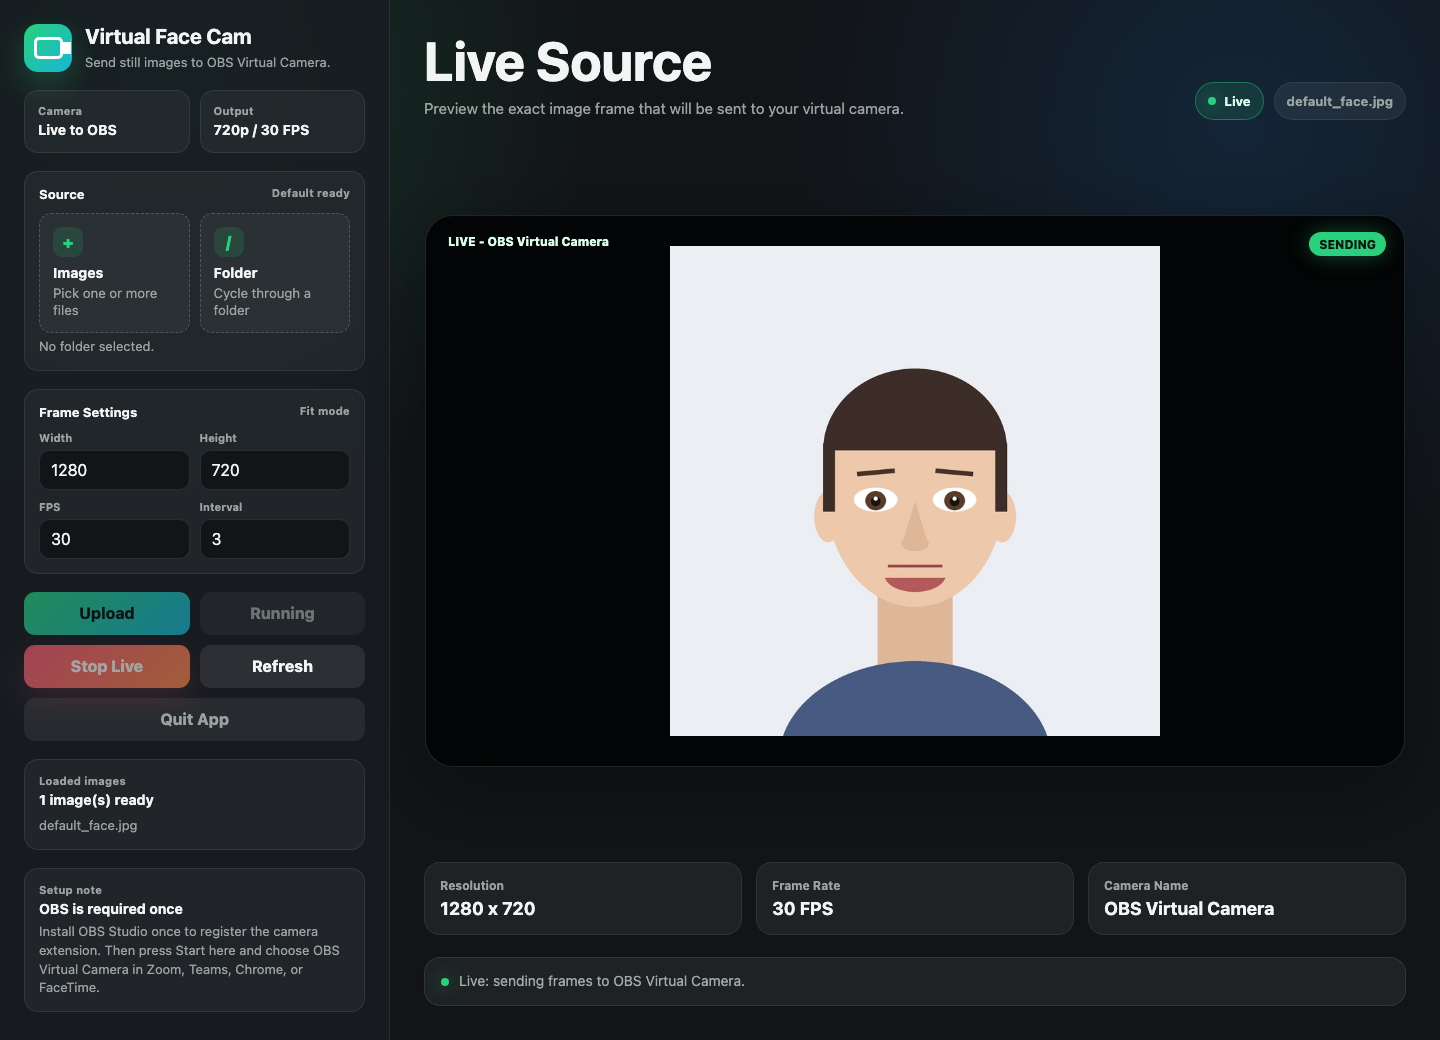
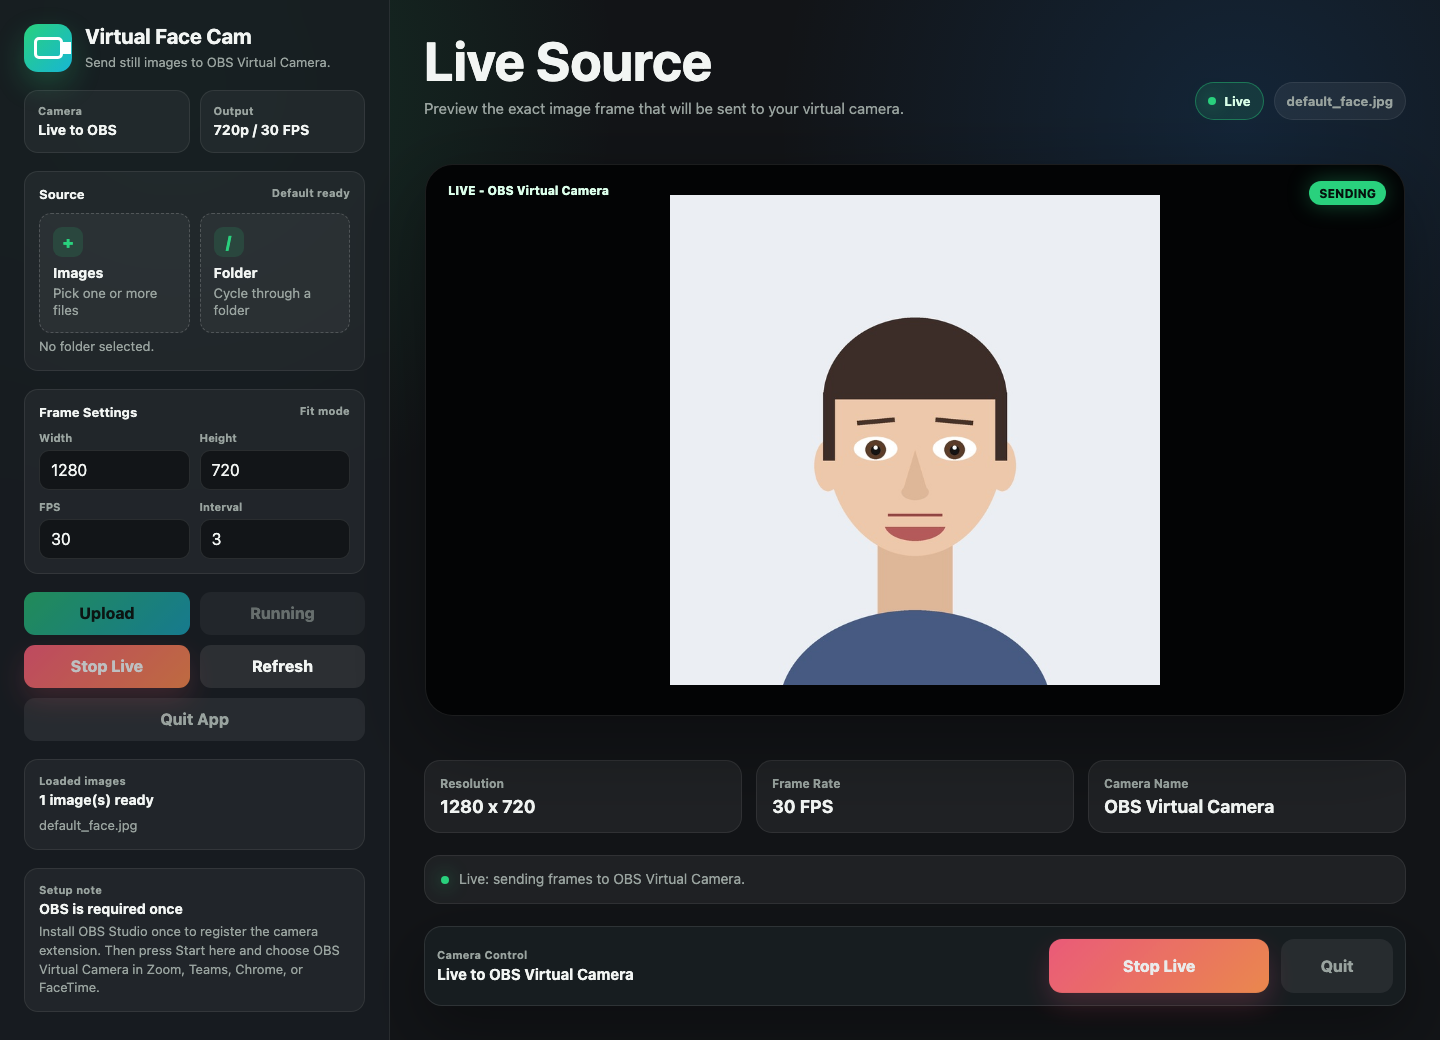
Make Mac browser app controls easier to use

diff --git a/mac/Virtual Face Cam.app/Contents/Resources/mac_virtual_face_cam.py b/mac/Virtual Face Cam.app/Contents/Resources/mac_virtual_face_cam.py
@@ -551,7 +551,7 @@ HTML = r"""<!doctype html>
       min-width: 0;
       padding: 34px;
       display: grid;
-      grid-template-rows: auto minmax(0, 1fr) auto;
+      grid-template-rows: auto minmax(0, 1fr) auto auto;
       gap: 22px;
     }
     .stage-header {
@@ -741,6 +741,37 @@ HTML = r"""<!doctype html>
       background: rgba(255, 92, 122, 0.10);
       color: #ffdce4;
     }
+    .live-dock {
+      position: sticky;
+      bottom: 18px;
+      z-index: 20;
+      display: grid;
+      grid-template-columns: minmax(0, 1fr) minmax(180px, 220px) 112px;
+      gap: 12px;
+      align-items: center;
+      padding: 12px;
+      border: 1px solid rgba(255, 255, 255, 0.10);
+      border-radius: 18px;
+      background: rgba(24, 29, 33, 0.92);
+      backdrop-filter: blur(24px);
+      box-shadow: 0 22px 60px rgba(0, 0, 0, 0.32);
+    }
+    .live-dock strong {
+      display: block;
+      font-size: 15px;
+      line-height: 1.25;
+      overflow-wrap: anywhere;
+    }
+    .live-dock button {
+      min-height: 54px;
+      font-size: 16px;
+      border-radius: 13px;
+    }
+    .big-action.danger {
+      background: linear-gradient(135deg, #ff5c7a, #ff8a4d);
+      color: #fff;
+      box-shadow: 0 12px 28px rgba(255, 92, 122, 0.22);
+    }
     @media (max-width: 880px) {
       .shell { grid-template-columns: 1fr; }
       .sidebar { border-right: 0; border-bottom: 1px solid rgba(255, 255, 255, 0.08); }
@@ -748,6 +779,7 @@ HTML = r"""<!doctype html>
       .stage-header { align-items: flex-start; flex-direction: column; }
       .pill-row { justify-content: flex-start; }
       .metrics { grid-template-columns: 1fr; }
+      .live-dock { grid-template-columns: 1fr; }
     }
   </style>
 </head>
@@ -880,6 +912,15 @@ HTML = r"""<!doctype html>
     </section>
 
     <div class="status" id="status"><span class="dot"></span><span>Stopped</span></div>
+
+    <section class="live-dock" aria-label="Camera controls">
+      <div>
+        <span class="eyebrow">Camera Control</span>
+        <strong id="dockStatus">Ready to start</strong>
+      </div>
+      <button id="mainToggle" class="primary big-action">Start Live</button>
+      <button id="dockQuit" class="secondary">Quit</button>
+    </section>
   </section>
 </main>
 
@@ -903,9 +944,13 @@ const uploadBtn = document.getElementById("upload");
 const startBtn = document.getElementById("start");
 const stopBtn = document.getElementById("stop");
 const quitBtn = document.getElementById("quit");
+const mainToggle = document.getElementById("mainToggle");
+const dockQuit = document.getElementById("dockQuit");
+const dockStatus = document.getElementById("dockStatus");
 const settingInputs = ["width", "height", "fps", "interval"].map(id => document.getElementById(id));
 let previewKey = "";
 let isQuitting = false;
+let latestState = { running: false, imageCount: 0 };
 
 function setStatus(message, tone = "idle") {
   const dotTone = tone === "running" ? "ready" : tone === "error" ? "error" : tone === "busy" ? "busy" : "";
@@ -953,14 +998,20 @@ function syncMetrics() {
 }
 
 function applyControls(data) {
+  latestState = data;
   const hasImages = Boolean(data.imageCount);
+  const running = Boolean(data.running);
   uploadBtn.disabled = Boolean(data.running);
   startBtn.disabled = Boolean(data.running) || !hasImages;
   stopBtn.disabled = !data.running;
   settingInputs.forEach(input => input.disabled = Boolean(data.running));
-  cameraValue.textContent = data.running ? "Live to OBS" : hasImages ? "Ready" : "Waiting";
-  startBtn.textContent = data.running ? "Running" : "Start";
-  stopBtn.textContent = data.running ? "Stop Live" : "Stop";
+  cameraValue.textContent = running ? "Live to OBS" : hasImages ? "Ready" : "Waiting";
+  startBtn.textContent = running ? "Running" : "Start";
+  stopBtn.textContent = running ? "Stop Live" : "Stop";
+  mainToggle.disabled = !running && !hasImages;
+  mainToggle.textContent = running ? "Stop Live" : "Start Live";
+  mainToggle.className = running ? "danger big-action" : "primary big-action";
+  dockStatus.textContent = running ? "Live to OBS Virtual Camera" : hasImages ? "Ready to start" : "Choose an image first";
 }
 
 function selectedFiles() {
@@ -1011,7 +1062,7 @@ document.getElementById("upload").addEventListener("click", async () => {
   }
 });
 
-document.getElementById("start").addEventListener("click", async () => {
+async function startCamera() {
   const body = {
     width: Number(document.getElementById("width").value),
     height: Number(document.getElementById("height").value),
@@ -1021,6 +1072,7 @@ document.getElementById("start").addEventListener("click", async () => {
   setStatus("Starting virtual camera...", "busy");
   startBtn.disabled = true;
   uploadBtn.disabled = true;
+  mainToggle.disabled = true;
   try {
     await api("/api/start", {
       method: "POST",
@@ -1032,11 +1084,12 @@ document.getElementById("start").addEventListener("click", async () => {
     setStatus(err.message, "error");
     await refresh();
   }
-});
+}
 
-document.getElementById("stop").addEventListener("click", async () => {
+async function stopCamera() {
   setStatus("Stopping virtual camera...", "busy");
   stopBtn.disabled = true;
+  mainToggle.disabled = true;
   try {
     await api("/api/stop", { method: "POST" });
     await refresh();
@@ -1044,11 +1097,14 @@ document.getElementById("stop").addEventListener("click", async () => {
     setStatus(err.message, "error");
     await refresh();
   }
-});
+}
+
+document.getElementById("start").addEventListener("click", startCamera);
+document.getElementById("stop").addEventListener("click", stopCamera);
 
 document.getElementById("refresh").addEventListener("click", refresh);
 
-quitBtn.addEventListener("click", () => {
+function quitApp() {
   isQuitting = true;
   setStatus("Closing app...", "busy");
   navigator.sendBeacon("/api/quit", new Blob([], { type: "text/plain" }));
@@ -1056,6 +1112,17 @@ quitBtn.addEventListener("click", () => {
   setTimeout(() => {
     statusEl.innerHTML = `<span class="dot busy"></span><span>App closed. Open Virtual Face Cam.app to start again.</span>`;
   }, 300);
+}
+
+quitBtn.addEventListener("click", quitApp);
+dockQuit.addEventListener("click", quitApp);
+
+mainToggle.addEventListener("click", () => {
+  if (latestState.running) {
+    stopCamera();
+  } else {
+    startCamera();
+  }
 });
 
 function pingServer() {

diff --git a/mac/mac_virtual_face_cam.py b/mac/mac_virtual_face_cam.py
@@ -551,7 +551,7 @@ HTML = r"""<!doctype html>
       min-width: 0;
       padding: 34px;
       display: grid;
-      grid-template-rows: auto minmax(0, 1fr) auto;
+      grid-template-rows: auto minmax(0, 1fr) auto auto;
       gap: 22px;
     }
     .stage-header {
@@ -741,6 +741,37 @@ HTML = r"""<!doctype html>
       background: rgba(255, 92, 122, 0.10);
       color: #ffdce4;
     }
+    .live-dock {
+      position: sticky;
+      bottom: 18px;
+      z-index: 20;
+      display: grid;
+      grid-template-columns: minmax(0, 1fr) minmax(180px, 220px) 112px;
+      gap: 12px;
+      align-items: center;
+      padding: 12px;
+      border: 1px solid rgba(255, 255, 255, 0.10);
+      border-radius: 18px;
+      background: rgba(24, 29, 33, 0.92);
+      backdrop-filter: blur(24px);
+      box-shadow: 0 22px 60px rgba(0, 0, 0, 0.32);
+    }
+    .live-dock strong {
+      display: block;
+      font-size: 15px;
+      line-height: 1.25;
+      overflow-wrap: anywhere;
+    }
+    .live-dock button {
+      min-height: 54px;
+      font-size: 16px;
+      border-radius: 13px;
+    }
+    .big-action.danger {
+      background: linear-gradient(135deg, #ff5c7a, #ff8a4d);
+      color: #fff;
+      box-shadow: 0 12px 28px rgba(255, 92, 122, 0.22);
+    }
     @media (max-width: 880px) {
       .shell { grid-template-columns: 1fr; }
       .sidebar { border-right: 0; border-bottom: 1px solid rgba(255, 255, 255, 0.08); }
@@ -748,6 +779,7 @@ HTML = r"""<!doctype html>
       .stage-header { align-items: flex-start; flex-direction: column; }
       .pill-row { justify-content: flex-start; }
       .metrics { grid-template-columns: 1fr; }
+      .live-dock { grid-template-columns: 1fr; }
     }
   </style>
 </head>
@@ -880,6 +912,15 @@ HTML = r"""<!doctype html>
     </section>
 
     <div class="status" id="status"><span class="dot"></span><span>Stopped</span></div>
+
+    <section class="live-dock" aria-label="Camera controls">
+      <div>
+        <span class="eyebrow">Camera Control</span>
+        <strong id="dockStatus">Ready to start</strong>
+      </div>
+      <button id="mainToggle" class="primary big-action">Start Live</button>
+      <button id="dockQuit" class="secondary">Quit</button>
+    </section>
   </section>
 </main>
 
@@ -903,9 +944,13 @@ const uploadBtn = document.getElementById("upload");
 const startBtn = document.getElementById("start");
 const stopBtn = document.getElementById("stop");
 const quitBtn = document.getElementById("quit");
+const mainToggle = document.getElementById("mainToggle");
+const dockQuit = document.getElementById("dockQuit");
+const dockStatus = document.getElementById("dockStatus");
 const settingInputs = ["width", "height", "fps", "interval"].map(id => document.getElementById(id));
 let previewKey = "";
 let isQuitting = false;
+let latestState = { running: false, imageCount: 0 };
 
 function setStatus(message, tone = "idle") {
   const dotTone = tone === "running" ? "ready" : tone === "error" ? "error" : tone === "busy" ? "busy" : "";
@@ -953,14 +998,20 @@ function syncMetrics() {
 }
 
 function applyControls(data) {
+  latestState = data;
   const hasImages = Boolean(data.imageCount);
+  const running = Boolean(data.running);
   uploadBtn.disabled = Boolean(data.running);
   startBtn.disabled = Boolean(data.running) || !hasImages;
   stopBtn.disabled = !data.running;
   settingInputs.forEach(input => input.disabled = Boolean(data.running));
-  cameraValue.textContent = data.running ? "Live to OBS" : hasImages ? "Ready" : "Waiting";
-  startBtn.textContent = data.running ? "Running" : "Start";
-  stopBtn.textContent = data.running ? "Stop Live" : "Stop";
+  cameraValue.textContent = running ? "Live to OBS" : hasImages ? "Ready" : "Waiting";
+  startBtn.textContent = running ? "Running" : "Start";
+  stopBtn.textContent = running ? "Stop Live" : "Stop";
+  mainToggle.disabled = !running && !hasImages;
+  mainToggle.textContent = running ? "Stop Live" : "Start Live";
+  mainToggle.className = running ? "danger big-action" : "primary big-action";
+  dockStatus.textContent = running ? "Live to OBS Virtual Camera" : hasImages ? "Ready to start" : "Choose an image first";
 }
 
 function selectedFiles() {
@@ -1011,7 +1062,7 @@ document.getElementById("upload").addEventListener("click", async () => {
   }
 });
 
-document.getElementById("start").addEventListener("click", async () => {
+async function startCamera() {
   const body = {
     width: Number(document.getElementById("width").value),
     height: Number(document.getElementById("height").value),
@@ -1021,6 +1072,7 @@ document.getElementById("start").addEventListener("click", async () => {
   setStatus("Starting virtual camera...", "busy");
   startBtn.disabled = true;
   uploadBtn.disabled = true;
+  mainToggle.disabled = true;
   try {
     await api("/api/start", {
       method: "POST",
@@ -1032,11 +1084,12 @@ document.getElementById("start").addEventListener("click", async () => {
     setStatus(err.message, "error");
     await refresh();
   }
-});
+}
 
-document.getElementById("stop").addEventListener("click", async () => {
+async function stopCamera() {
   setStatus("Stopping virtual camera...", "busy");
   stopBtn.disabled = true;
+  mainToggle.disabled = true;
   try {
     await api("/api/stop", { method: "POST" });
     await refresh();
@@ -1044,11 +1097,14 @@ document.getElementById("stop").addEventListener("click", async () => {
     setStatus(err.message, "error");
     await refresh();
   }
-});
+}
+
+document.getElementById("start").addEventListener("click", startCamera);
+document.getElementById("stop").addEventListener("click", stopCamera);
 
 document.getElementById("refresh").addEventListener("click", refresh);
 
-quitBtn.addEventListener("click", () => {
+function quitApp() {
   isQuitting = true;
   setStatus("Closing app...", "busy");
   navigator.sendBeacon("/api/quit", new Blob([], { type: "text/plain" }));
@@ -1056,6 +1112,17 @@ quitBtn.addEventListener("click", () => {
   setTimeout(() => {
     statusEl.innerHTML = `<span class="dot busy"></span><span>App closed. Open Virtual Face Cam.app to start again.</span>`;
   }, 300);
+}
+
+quitBtn.addEventListener("click", quitApp);
+dockQuit.addEventListener("click", quitApp);
+
+mainToggle.addEventListener("click", () => {
+  if (latestState.running) {
+    stopCamera();
+  } else {
+    startCamera();
+  }
 });
 
 function pingServer() {

diff --git a/README.md b/README.md
@@ -123,6 +123,13 @@ chrome://restart
 처음 실행할 때는 더블클릭 대신 오른쪽 클릭 후 **열기**를 사용하세요.
 macOS Gatekeeper 때문에 처음 한 번은 이 과정이 필요할 수 있습니다.
 
+오른쪽 클릭 후 **열기**를 눌러도 아무 일도 안 일어나면 `mac/run-mac.command`를
+더블클릭하세요. 그래도 실패하면 아래 로그 파일을 확인하면 원인을 볼 수 있습니다.
+
+```text
+~/Library/Application Support/VirtualFaceCamMac/launch.log
+```
+
 ### Mac에서 Python 오류가 나요
 
 `mac/Virtual Face Cam.app` 또는 `mac/run-mac.command`를 쓰는 것을 권장합니다.

diff --git a/mac/README.md b/mac/README.md
@@ -61,6 +61,8 @@ App Group, macOS System Extension 승인이 필요합니다.
 ## 문제 해결
 
 - 앱이 안 열리면 더블클릭 대신 오른쪽 클릭 > **열기**를 사용하세요.
+- 오른쪽 클릭 > **열기**에도 아무 일도 안 일어나면 `run-mac.command`를 더블클릭하세요.
+- 그래도 안 열리면 `~/Library/Application Support/VirtualFaceCamMac/launch.log`를 확인하세요.
 - `OBS Virtual Camera is not installed`가 나오면 OBS에서 **Start Virtual Camera**를 한 번 누르세요.
 - 앱 상태가 `Live`로 바뀌면 우리 앱은 OBS Virtual Camera에 프레임을 보내고 있는 상태입니다.
 - 다른 앱에 카메라가 안 보이면 그 앱을 완전히 종료했다가 다시 켜세요.